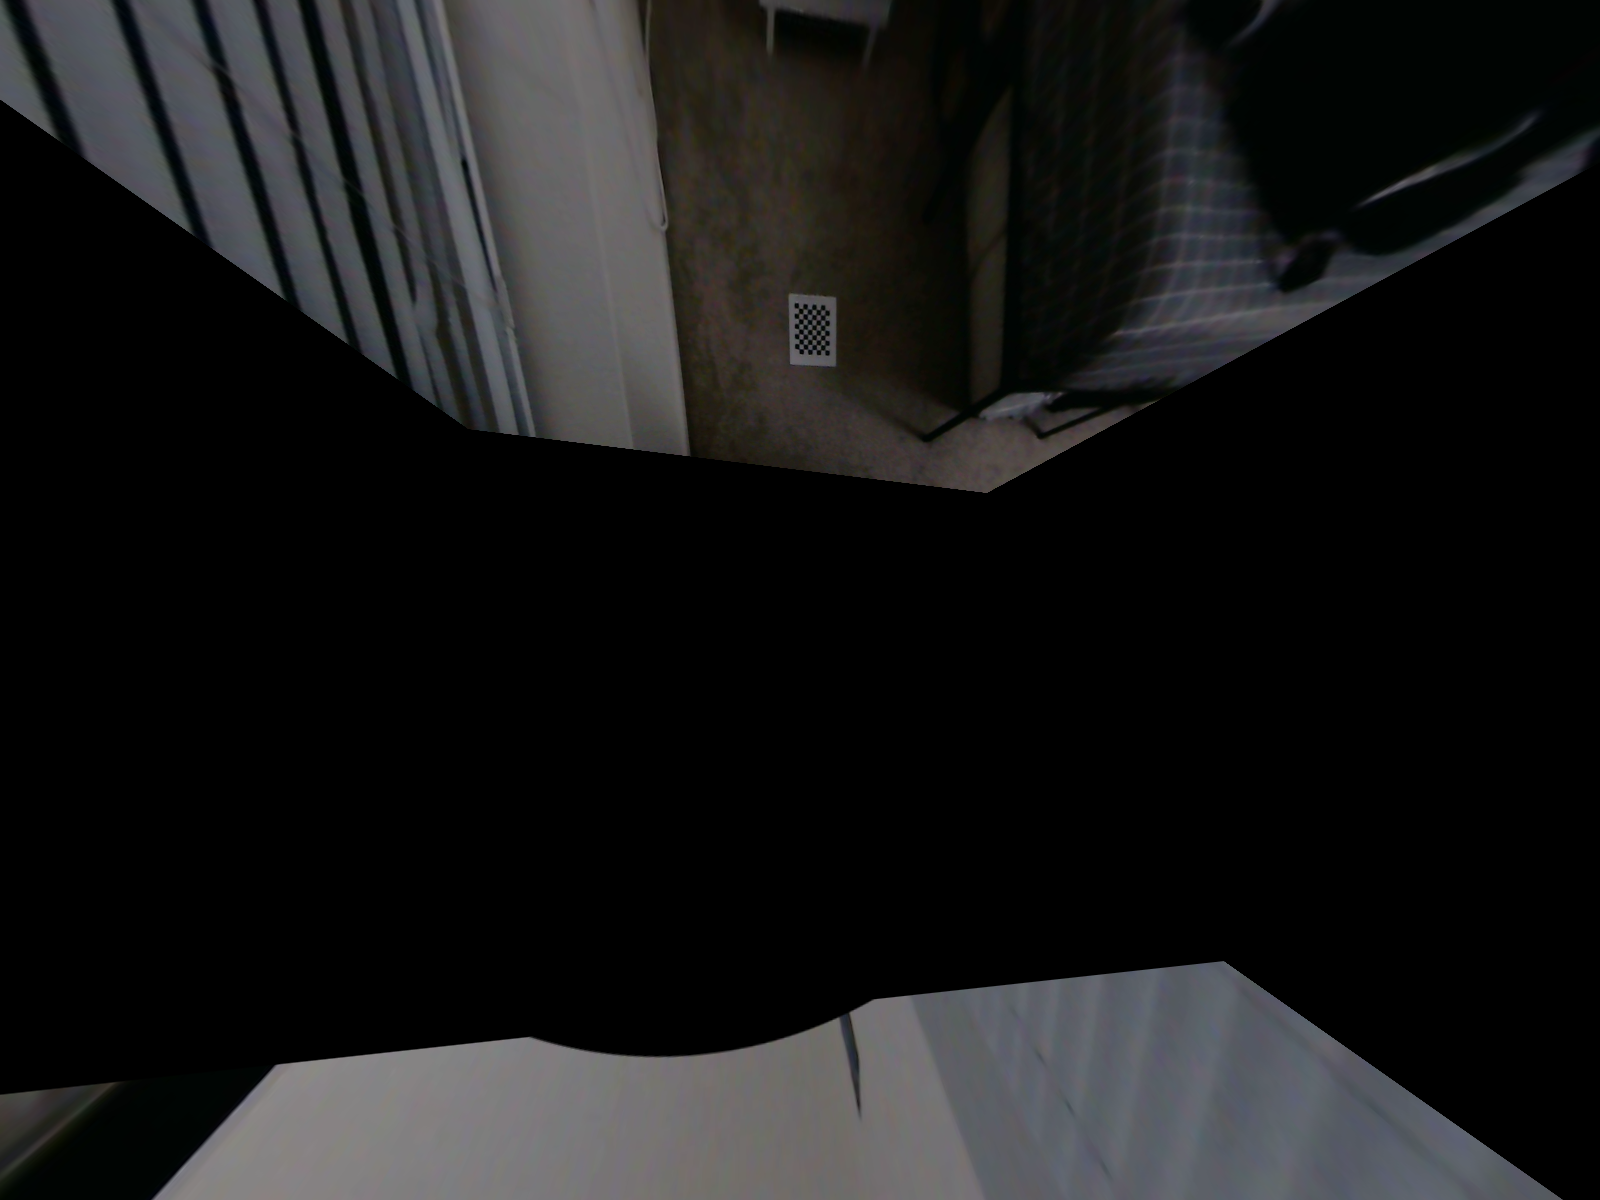
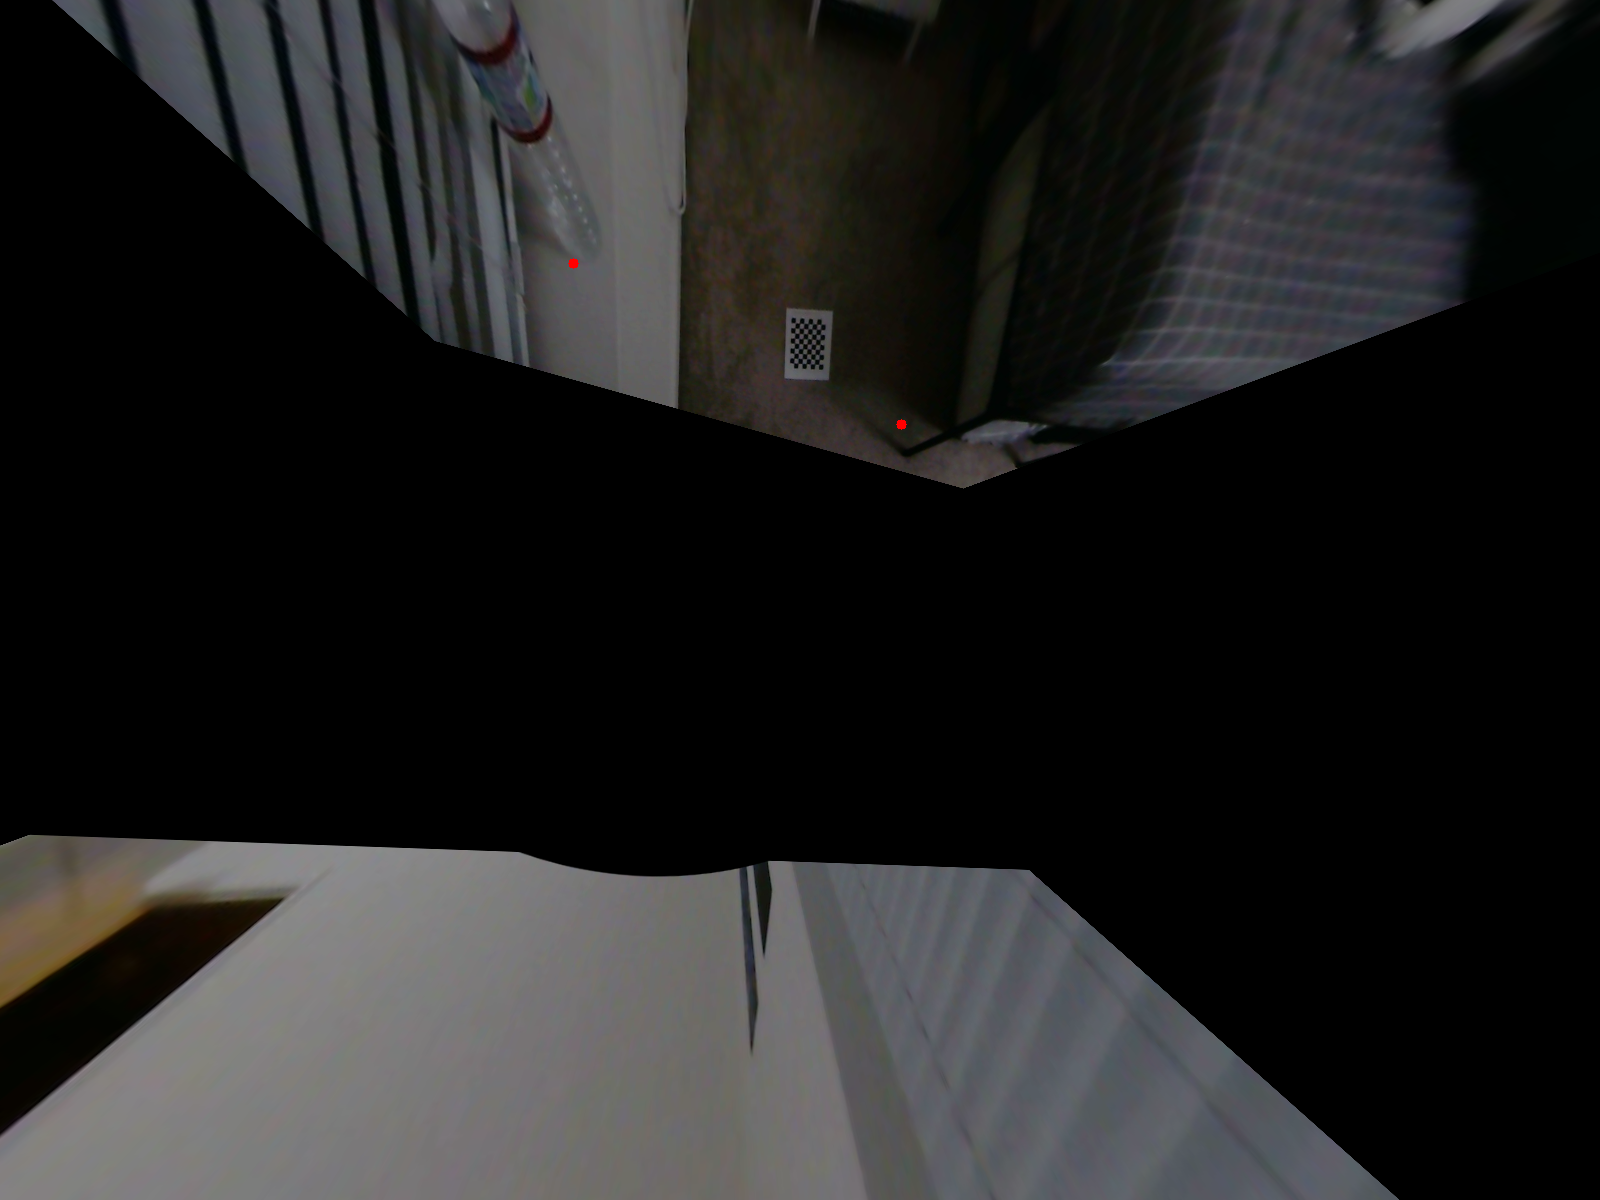
Saved some initial BEV + object detection integration results

diff --git a/src/camera.py b/src/camera.py
@@ -67,7 +67,7 @@ class CameraThread(threading.Thread):
         filename = f"{n}.png"
         path = os.path.join(image_dir, filename)
 
-        success = cv2.imwrite(path, self.frame)
+        success = cv2.imwrite(path, self.display_frame)
 
         if success:
             print(f"[INFO] Frame captured from camera {self.cam_id}")
